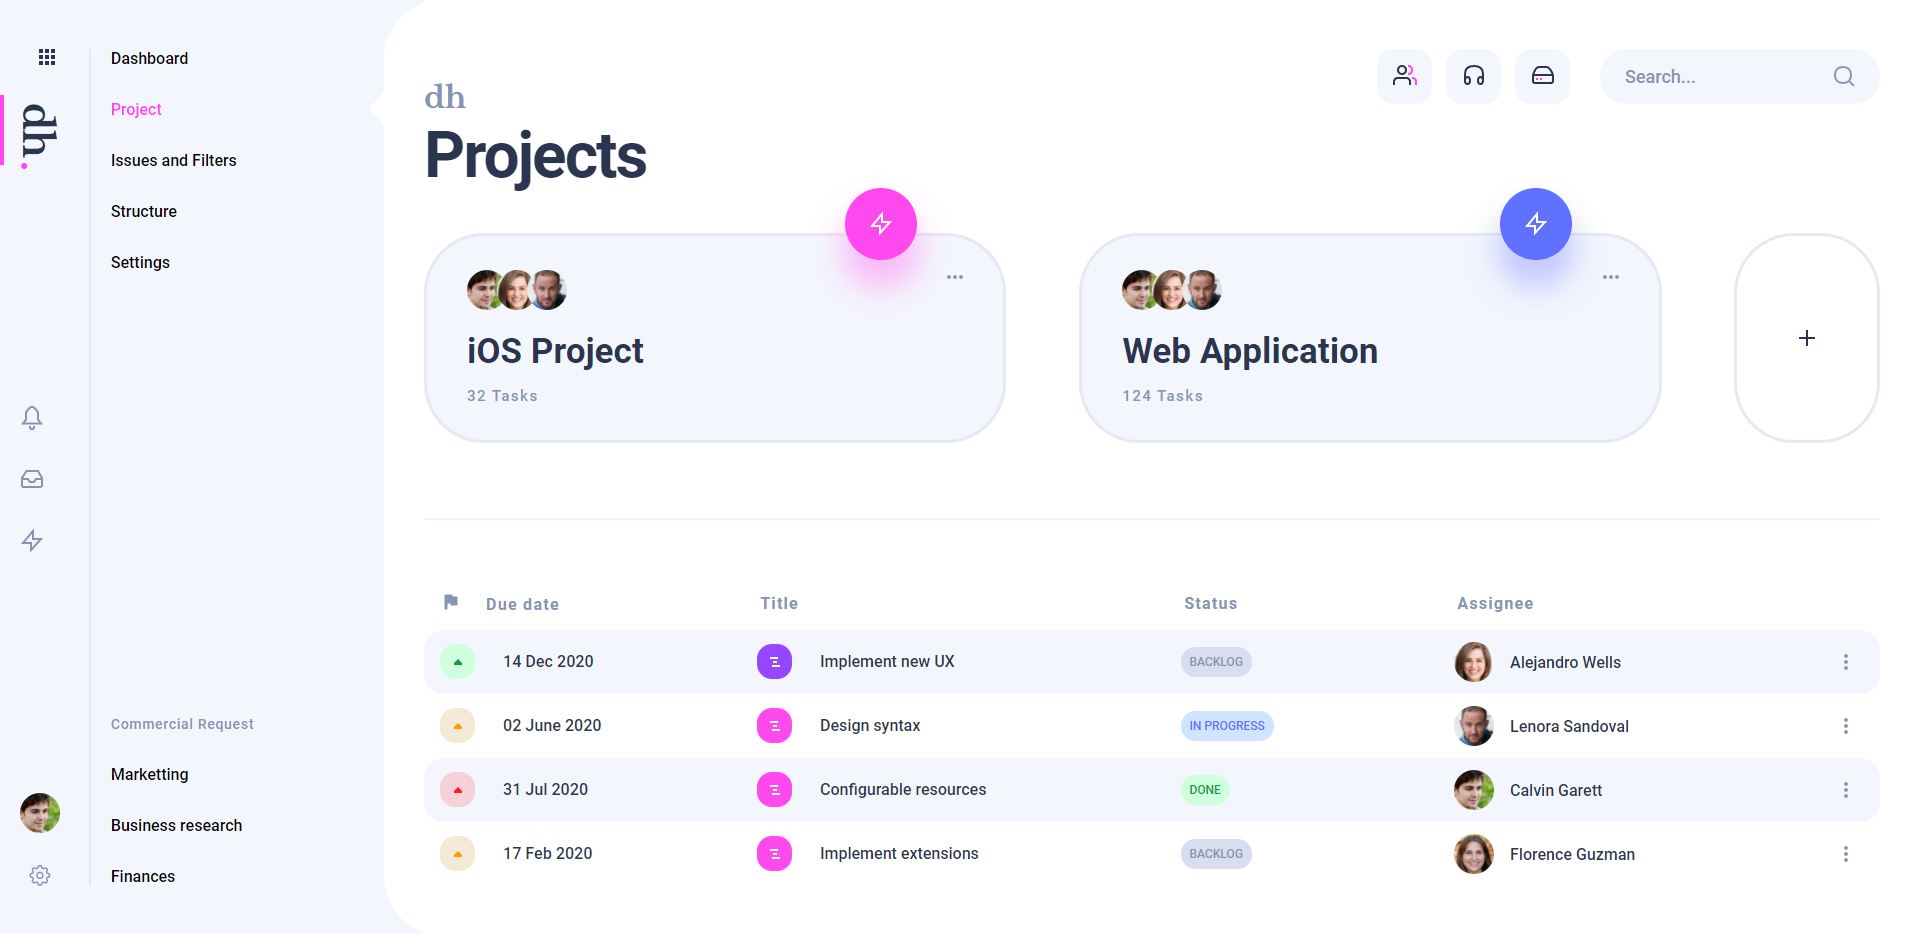
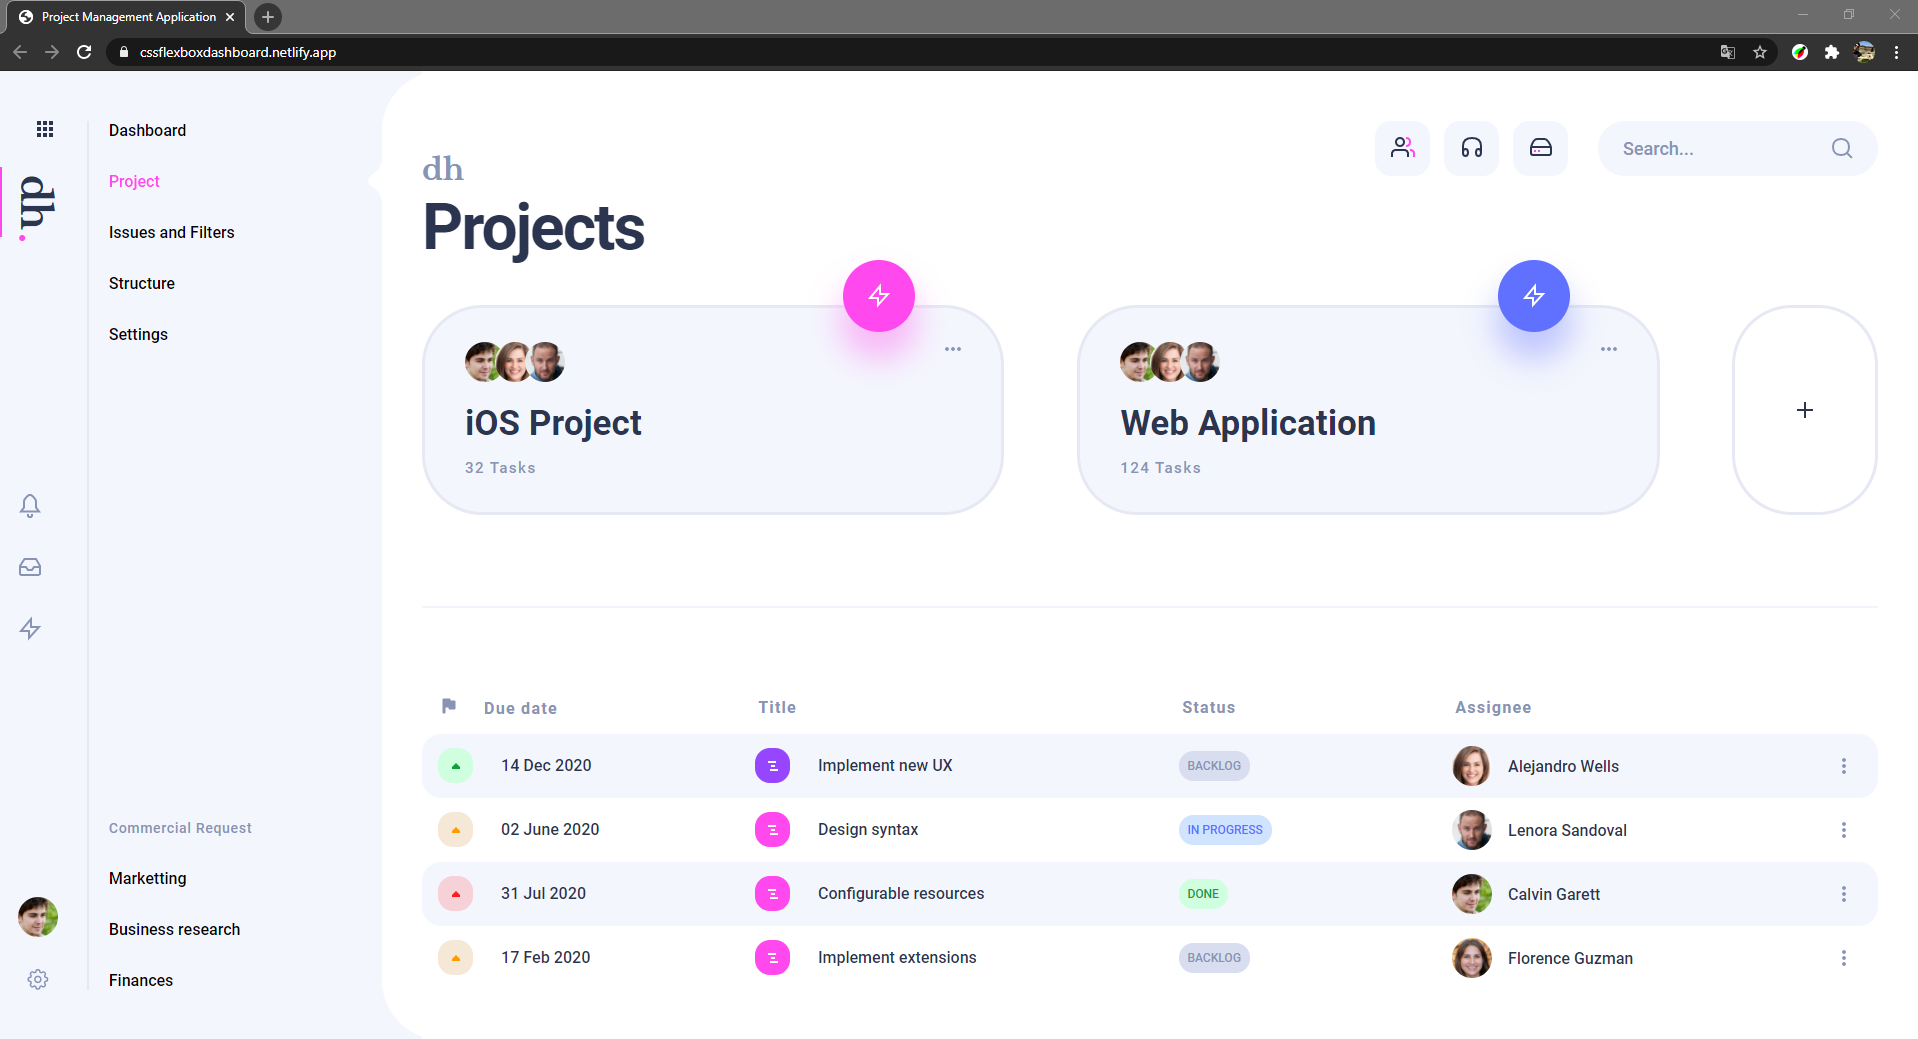
minor changes

diff --git a/README.md b/README.md
@@ -20,4 +20,4 @@ Linglee CSS Grid implementation based on https://dribbble.com/shots/10071908-Pro
 
 #### Mobile UI
 
-![Alt text](/screenshot/mobile_UI.png) -->
+![Alt text](/screenshot/web_UI.png)
